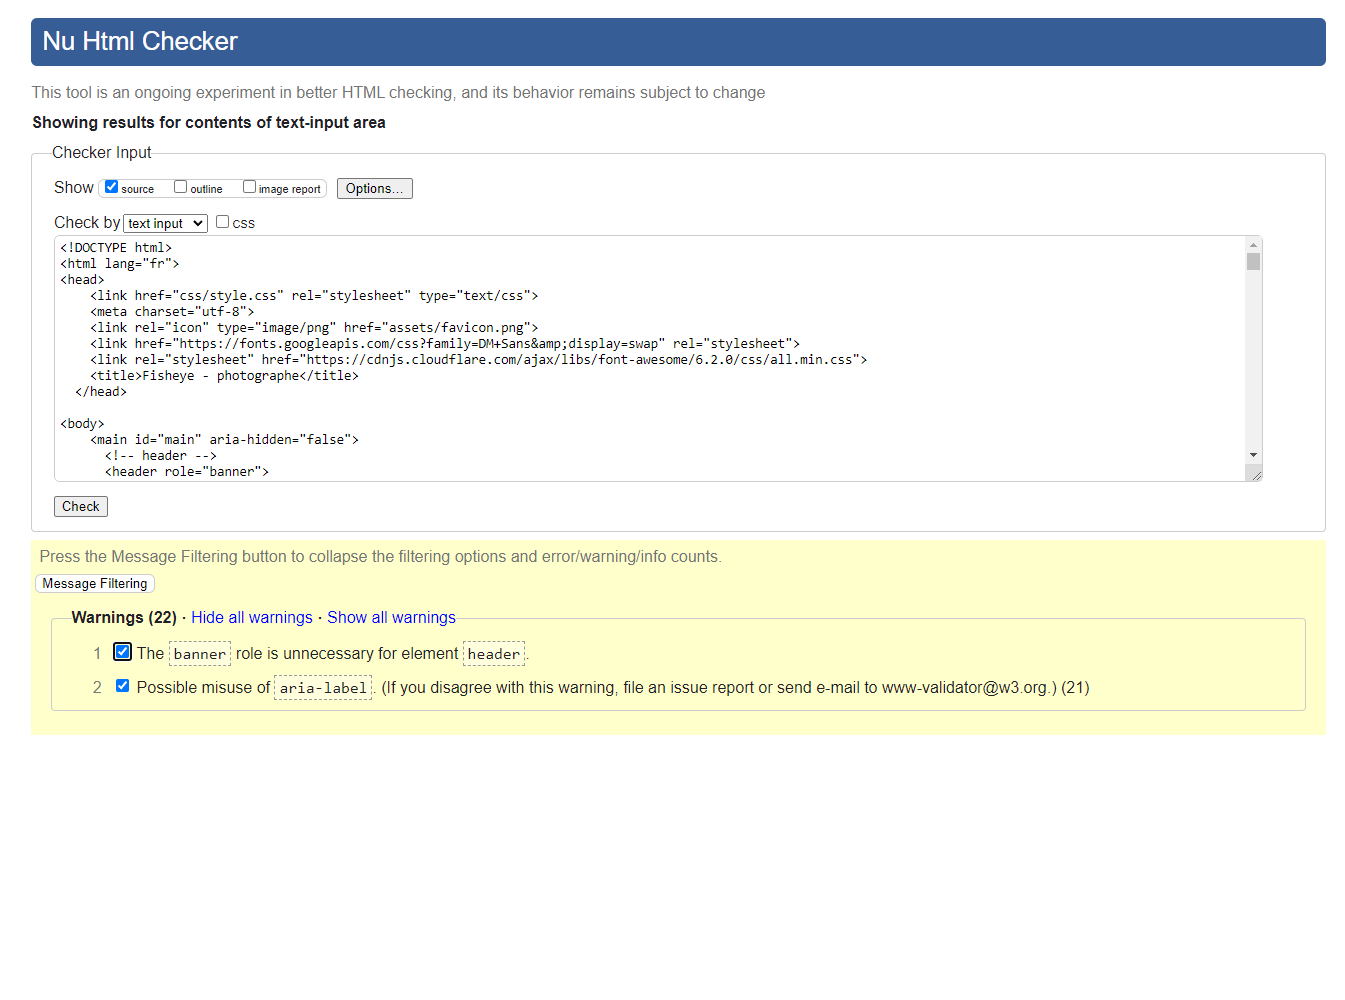
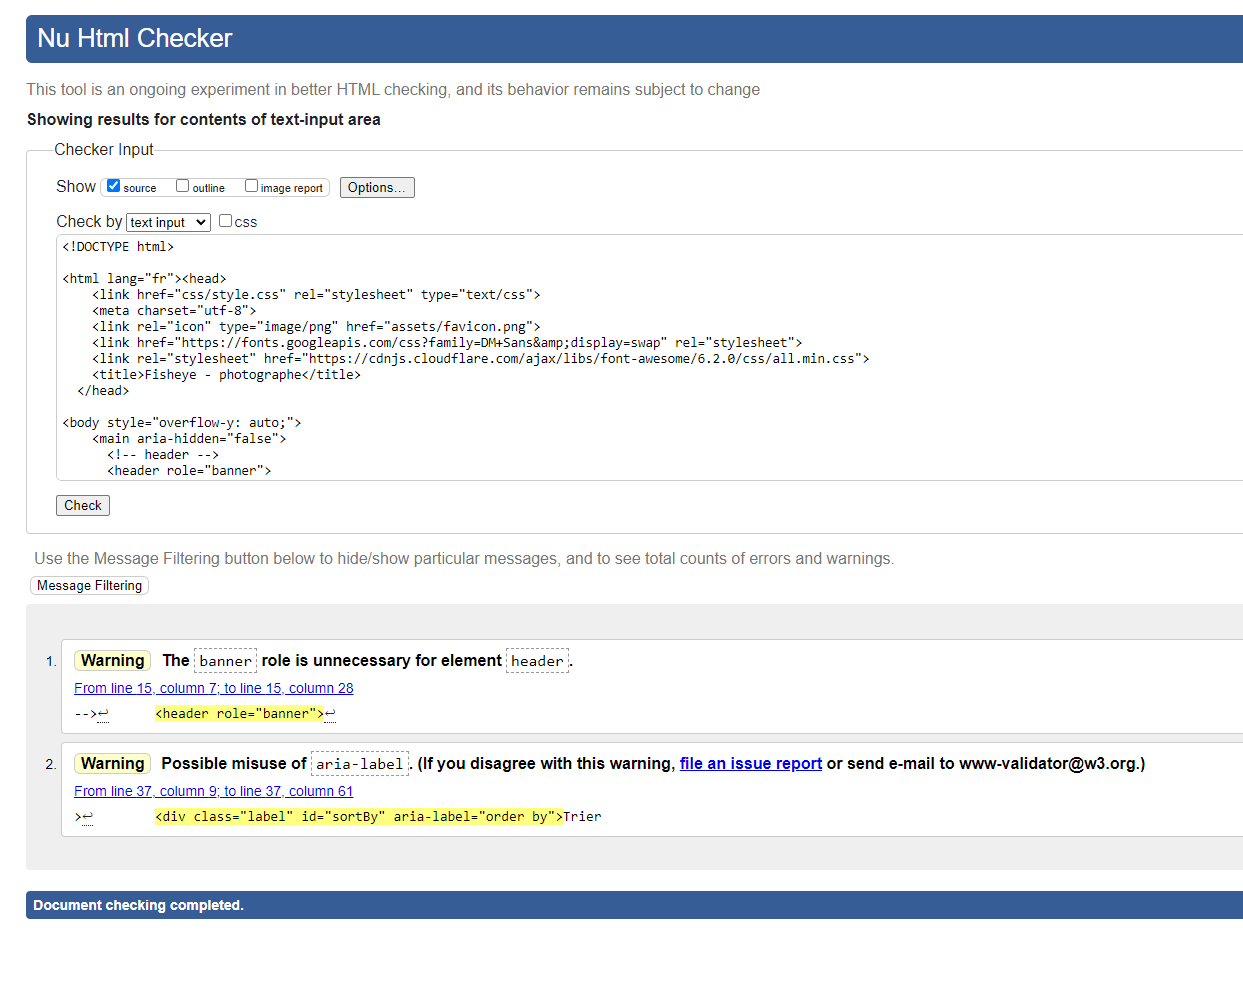
Achecker & W3C validator corrections for issues with html tag i

diff --git a/scripts/templates/imagesCard.js b/scripts/templates/imagesCard.js
@@ -20,20 +20,28 @@ export class ImagesCard {
               >${this._media.likes + (this._media.liked ? 1 : 0)}
               </span>
               <button class="likeBtn" data-mediaId= ${this._media.id}>
-              <i class="fa-solid fa-heart likeFull ${
+              <svg xmlns="http://www.w3.org/2000/svg" viewBox="0 0 512 512" class="likeFull ${
                 this._media.liked ? 'active' : ''
-              }" data-mediaId= ${this._media.id} aria-label="likes"></i>
-              <i class="fa-regular fa-heart likeEmpty ${
+              }"  data-mediaId= ${
+      this._media.id
+    } aria-label="likes"><path d="M47.6 300.4L228.3 469.1c7.5 7 17.4 10.9 27.7 10.9s20.2-3.9 27.7-10.9L464.4 300.4c30.4-28.3 47.6-68 47.6-109.5v-5.8c0-69.9-50.5-129.5-119.4-141C347 36.5 300.6 51.4 268 84L256 96 244 84c-32.6-32.6-79-47.5-124.6-39.9C50.5 55.6 0 115.2 0 185.1v5.8c0 41.5 17.2 81.2 47.6 109.5z" data-mediaId= ${
+      this._media.id
+    }/></svg>
+
+              <svg xmlns="http://www.w3.org/2000/svg" viewBox="0 0 512 512" class="likeEmpty ${
                 this._media.liked ? '' : 'active'
               }" data-mediaId= ${
       this._media.id
-    } aria-label="unlikes"></i>
+    } aria-label="unlikes"><path d="M244 84L255.1 96L267.1 84.02C300.6 51.37 347 36.51 392.6 44.1C461.5 55.58 512 115.2 512 185.1V190.9C512 232.4 494.8 272.1 464.4 300.4L283.7 469.1C276.2 476.1 266.3 480 256 480C245.7 480 235.8 476.1 228.3 469.1L47.59 300.4C17.23 272.1 0 232.4 0 190.9V185.1C0 115.2 50.52 55.58 119.4 44.1C164.1 36.51 211.4 51.37 244 84C243.1 84 244 84.01 244 84L244 84zM255.1 163.9L210.1 117.1C188.4 96.28 157.6 86.4 127.3 91.44C81.55 99.07 48 138.7 48 185.1V190.9C48 219.1 59.71 246.1 80.34 265.3L256 429.3L431.7 265.3C452.3 246.1 464 219.1 464 190.9V185.1C464 138.7 430.4 99.07 384.7 91.44C354.4 86.4 323.6 96.28 301.9 117.1L255.1 163.9z" data-mediaId= ${
+      this._media.id
+    }/></svg>
               </button>
           </div>
    `;
     article.innerHTML = imageCard;
     return article;
   }
+
 
   createImgCarousel() {
     const div = document.createElement('div');
@@ -60,4 +68,13 @@ export class ImagesCard {
          </button>
          <a href="#" class="arrow-prev">&#10094;</a>
          <a href="#" class="arrow-next">&#10095;</a> */
+}
+
+{
+  /* <i class="fa-solid fa-heart likeFull ${
+                this._media.liked ? 'active' : ''
+              }" data-mediaId= ${this._media.id} aria-label="likes"></i>
+              <i class="fa-regular fa-heart likeEmpty ${
+                this._media.liked ? '' : 'active'
+              }" data-mediaId= ${this._media.id} aria-label="unlikes"></i> */
 }

diff --git a/scripts/templates/videosCard.js b/scripts/templates/videosCard.js
@@ -24,13 +24,22 @@ export class VideosCard {
             <span class="like" data-likeId= ${this._media.id}
               >${this._media.likes + (this._media.liked ? 1 : 0)}
               </span>
-              <button class="likeBtn" data-mediaId= ${this._media.id}>
-              <i class="fa-solid fa-heart likeFull ${
+            <button class="likeBtn" data-mediaId= ${this._media.id}>
+              <svg xmlns="http://www.w3.org/2000/svg" viewBox="0 0 512 512" class="likeFull ${
                 this._media.liked ? 'active' : ''
-              }" data-mediaId= ${this._media.id} aria-label="likes"></i>
-              <i class="fa-regular fa-heart likeEmpty ${
+              }"  data-mediaId= ${
+      this._media.id
+    } aria-label="likes"><path d="M47.6 300.4L228.3 469.1c7.5 7 17.4 10.9 27.7 10.9s20.2-3.9 27.7-10.9L464.4 300.4c30.4-28.3 47.6-68 47.6-109.5v-5.8c0-69.9-50.5-129.5-119.4-141C347 36.5 300.6 51.4 268 84L256 96 244 84c-32.6-32.6-79-47.5-124.6-39.9C50.5 55.6 0 115.2 0 185.1v5.8c0 41.5 17.2 81.2 47.6 109.5z" data-mediaId= ${
+      this._media.id
+    }/></svg>
+
+              <svg xmlns="http://www.w3.org/2000/svg" viewBox="0 0 512 512" class="likeEmpty ${
                 this._media.liked ? '' : 'active'
-              }" data-mediaId= ${this._media.id} aria-label="unlike"></i>
+              }" data-mediaId= ${
+      this._media.id
+    } aria-label="unlikes"><path d="M244 84L255.1 96L267.1 84.02C300.6 51.37 347 36.51 392.6 44.1C461.5 55.58 512 115.2 512 185.1V190.9C512 232.4 494.8 272.1 464.4 300.4L283.7 469.1C276.2 476.1 266.3 480 256 480C245.7 480 235.8 476.1 228.3 469.1L47.59 300.4C17.23 272.1 0 232.4 0 190.9V185.1C0 115.2 50.52 55.58 119.4 44.1C164.1 36.51 211.4 51.37 244 84C243.1 84 244 84.01 244 84L244 84zM255.1 163.9L210.1 117.1C188.4 96.28 157.6 86.4 127.3 91.44C81.55 99.07 48 138.7 48 185.1V190.9C48 219.1 59.71 246.1 80.34 265.3L256 429.3L431.7 265.3C452.3 246.1 464 219.1 464 190.9V185.1C464 138.7 430.4 99.07 384.7 91.44C354.4 86.4 323.6 96.28 301.9 117.1L255.1 163.9z" data-mediaId= ${
+      this._media.id
+    }/></svg>
               </button>
           </div>
    `;

diff --git a/scripts/utils/likesForm.js b/scripts/utils/likesForm.js
@@ -65,7 +65,7 @@ async function updateLikePhotographerCount(boolean) {
 }
 
 /**
- *function that updates the total of photographer's like & pushes it in HTML 
+ *function that updates the total of photographer's like & pushes it in HTML
  */
 async function totalLikeUpdate() {
   let localStorageCounter = localStorage.getItem(photographerId); //cannot get before initialization
@@ -92,10 +92,10 @@ export async function likeMedia() {
     like.addEventListener('click', (e) => {
       //-----------  variables definion --------------
       //id of an image liked
-      const idImageLiked = `${photographerId}_${e.target.dataset.mediaid}`;
+      const idImageLiked = `${photographerId}_${e.currentTarget.dataset.mediaid}`;
       // like number element
       let likeElement = document.querySelector(
-        `[data-likeid="${e.target.dataset.mediaid}"]`
+        `[data-likeid="${e.currentTarget.dataset.mediaid}"]`
       );
       // number of like of the media liked
       let likeNumber = parseInt(likeElement.outerText);
@@ -106,6 +106,13 @@ export async function likeMedia() {
       //change css style of the like btn
       like.children[0].classList.toggle('active');
       like.children[1].classList.toggle('active');
+      for (let i = 0; i < like.children.length; i++) {
+        if (like.children[i].getAttribute('class').includes('active')) {
+          like.children[i].setAttribute('aria-hidden', false);
+        } else {
+          like.children[i].setAttribute('aria-hidden', true);
+        }
+      }
 
       if (!likeStored) {
         //create like in localStorage and add 1 like in media HTML counter

diff --git a/photographer.html b/photographer.html
@@ -16,7 +16,7 @@
   </head>
 
   <body>
-    <main id="main" aria-hidden="false">
+    <main aria-hidden="false">
       <!-- header -->
       <header role="banner">
         <a href="./index.html" aria-label="page d'acceuil Fisheye">
@@ -41,7 +41,7 @@
           aria-expanded="false"
         >
           <span class="value-text" id="valueText">Popularité</span>
-          <i class="fa-solid fa-chevron-down"></i>
+          <span class="fa-solid fa-chevron-down"></span>
         </button>
         <div class="select-container hidden">
           <ul
@@ -164,7 +164,7 @@
     <div class="popinInfo">
       <div class="popinInfoLike">
         <span id="counterLike"></span>
-        <i class="fa-solid fa-heart"></i>
+        <span class="fa-solid fa-heart"></span>
       </div>
       <span id="price">250 € / jour</span>
     </div>
@@ -179,7 +179,7 @@
     >
       <div class="lightbox-content">
         <button class="close-carousel" aria-label="close carousel">
-          <i class="fa-solid fa-xmark"></i>
+          <span class="fa-solid fa-xmark"></span>
         </button>
         <button class="arrow-prev" aria-label="previous image">&#10094;</button>
         <div class="lightbox-slide-container"></div>

diff --git a/css/photographer.css b/css/photographer.css
@@ -517,7 +517,7 @@ form textarea {
   cursor: pointer;
 }
 .select-option:hover,
-.select-option:focus-visible, 
+.select-option:focus-visible,
 .select-option:focus-visible svg {
   background: #db8876;
   color: black;
@@ -615,7 +615,7 @@ form textarea {
 }
 
 .media article h2 {
- font-size: 1.5rem;
+  font-size: 1.5rem;
 }
 
 .media .img-container {
@@ -673,23 +673,28 @@ form textarea {
   color: var(--color1);
 }
 
-.media .text-container i {
+.media .text-container i,
+.media .text-container svg {
+  position: absolute;
+  top: 50%;
+  right: 50%;
+  transform: translate(50%, -50%);
   cursor: pointer;
-  width: 100%;
-  height: 100%;
+  width: 20px;
+  height: 20px;
+  fill: var(--color1);
 }
 
 .likeEmpty,
 .likeFull {
-  position: absolute;
-  top: 5px;
-  right: 0;
   transition: 0.3s ease forwards;
   transform: scale(0);
+  display: none;
 }
 
 .active {
   transform: scale(1);
+  display: block;
 }
 
 /* -------------light-box modal----------------- */

diff --git a/scripts/utils/contactForm.js b/scripts/utils/contactForm.js
@@ -1,7 +1,7 @@
 //import
 
 // DOM Element
-export const mainContainer = document.getElementById('main');
+export const mainContainer = document.querySelector('main');
 const formModal = document.getElementById('contact_modal');
 const formTitle = document.getElementById('form-title');
 const formContainer = document.querySelector('.form-container');
@@ -33,7 +33,7 @@ export async function getNamePhotographerIntoContactForm(name) {
  */
 function validate() {
   successMessage.classList.replace('select-hide', 'success-show');
-  formContainer.setAttribute('inert','');
+  formContainer.setAttribute('inert', '');
   contactBtnClose.focus();
 }
 

diff --git a/scripts/utils/sortForm.js b/scripts/utils/sortForm.js
@@ -39,7 +39,7 @@ function toggleFilterClass(selector) {
  */
 function addSelectedFilterValue(e, selector) {
   let newFilterValue = e.target.textContent;
-  if (newFilterValue.length !== 0) {
+  if (e.target.tagName !== 'svg' && e.target.tagName !== 'path') {
     selector.textContent = newFilterValue;
     currentValue = newFilterValue;
   }

diff --git a/index.html b/index.html
@@ -21,7 +21,7 @@
       </a>
       <h1>Nos photographes</h1>
     </header>
-    <main id="main">
+    <main>
       <div class="photographer_section"></div>
     </main>
 
